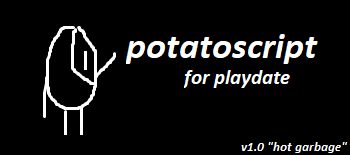
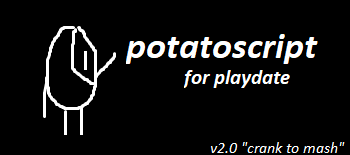
v2.0: crank to mash
added:
crank script execution
sleeping

changed:
moved both help and about to helpabout.lua
how scripts are executed
moved potscr parser to parser.lua

Changed region(s): [[0.6, 0.9032, 1.0, 1.0]]

diff --git a/README.md b/README.md
@@ -8,10 +8,9 @@ potatoscript for playdate
 4. go to menu/select script
 5. select the potatoscript you would like to run
 6. press A to run the potatoscript
+7. if the crank is undocked, then you can use the crank to do step-by-step potatoscript execution.
 
 ### to-do
 - input/variable support
-- sleep support
 - printing 2+ strings on one line (using %)
-- step-by-step script execution via crank
 - a script editor (maybe)
